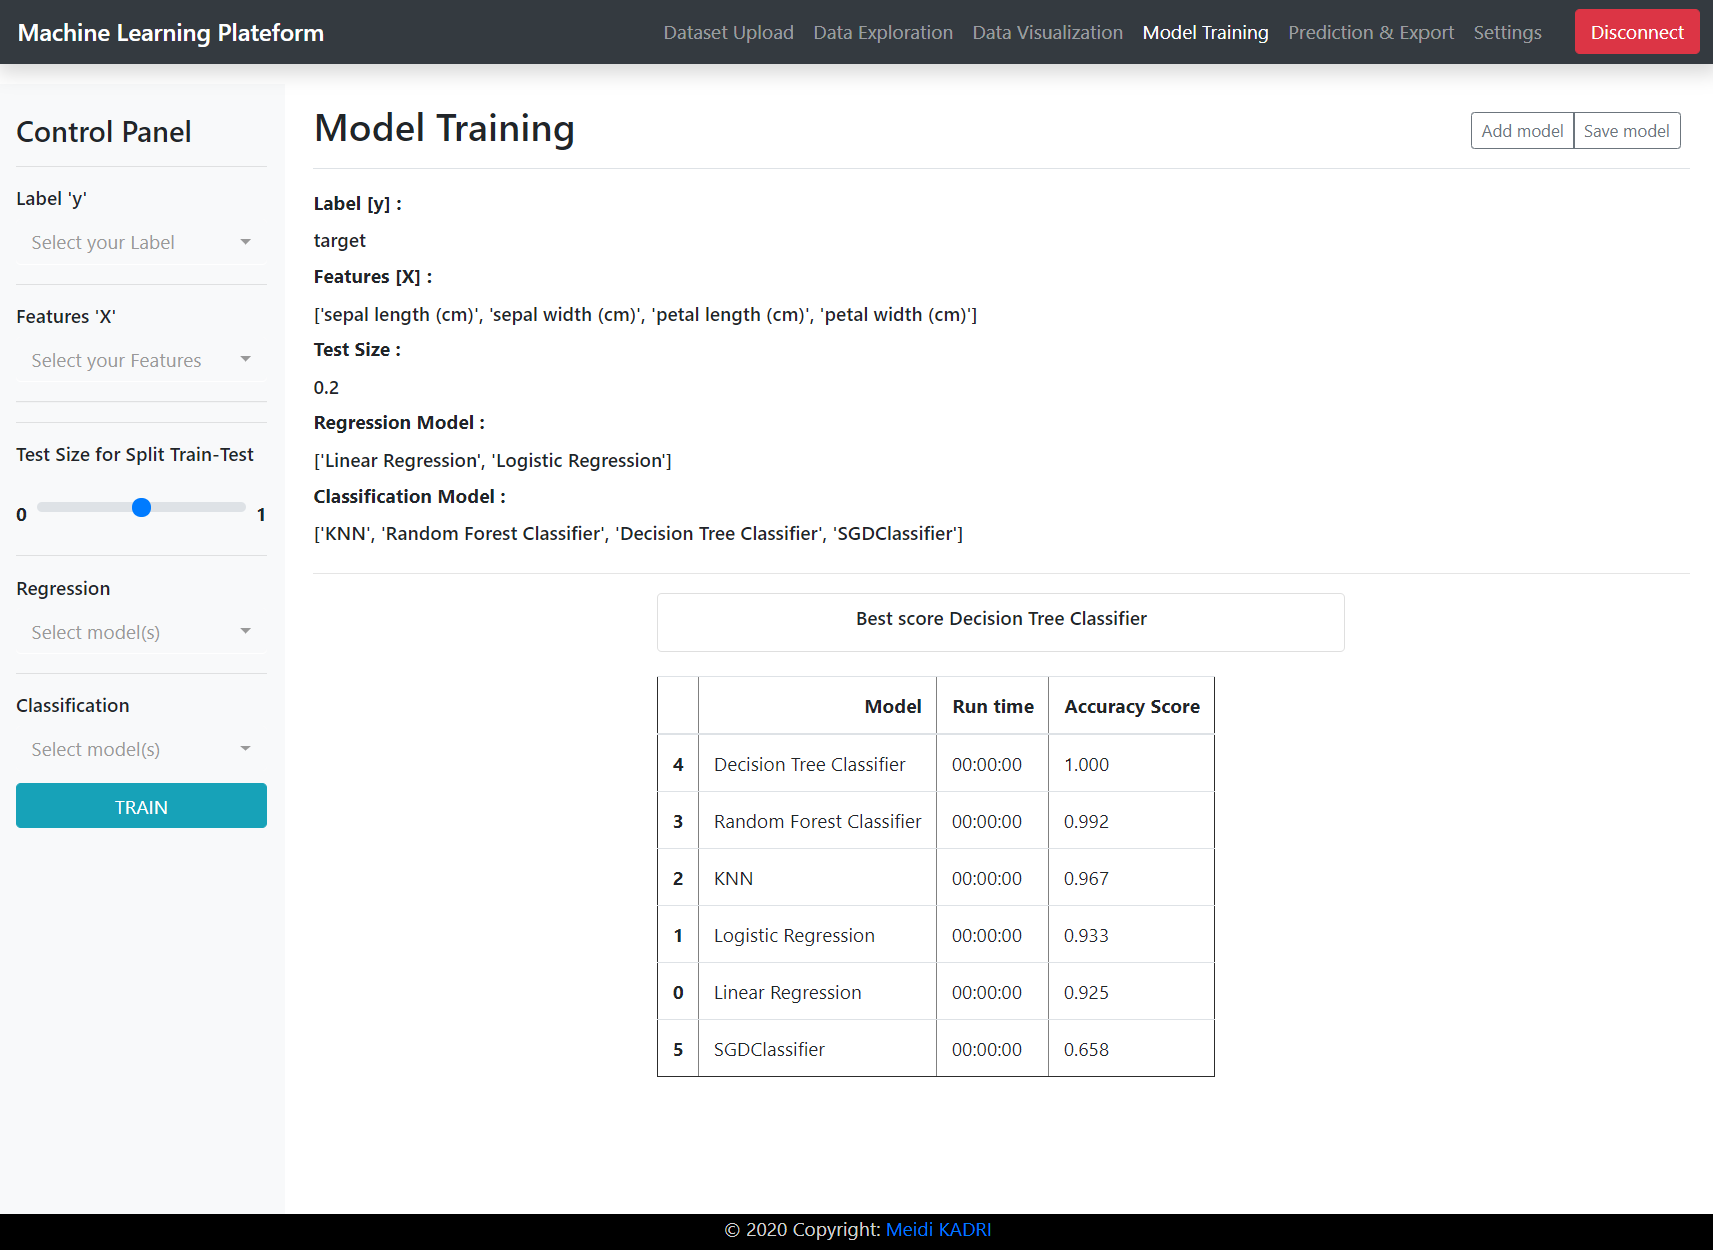
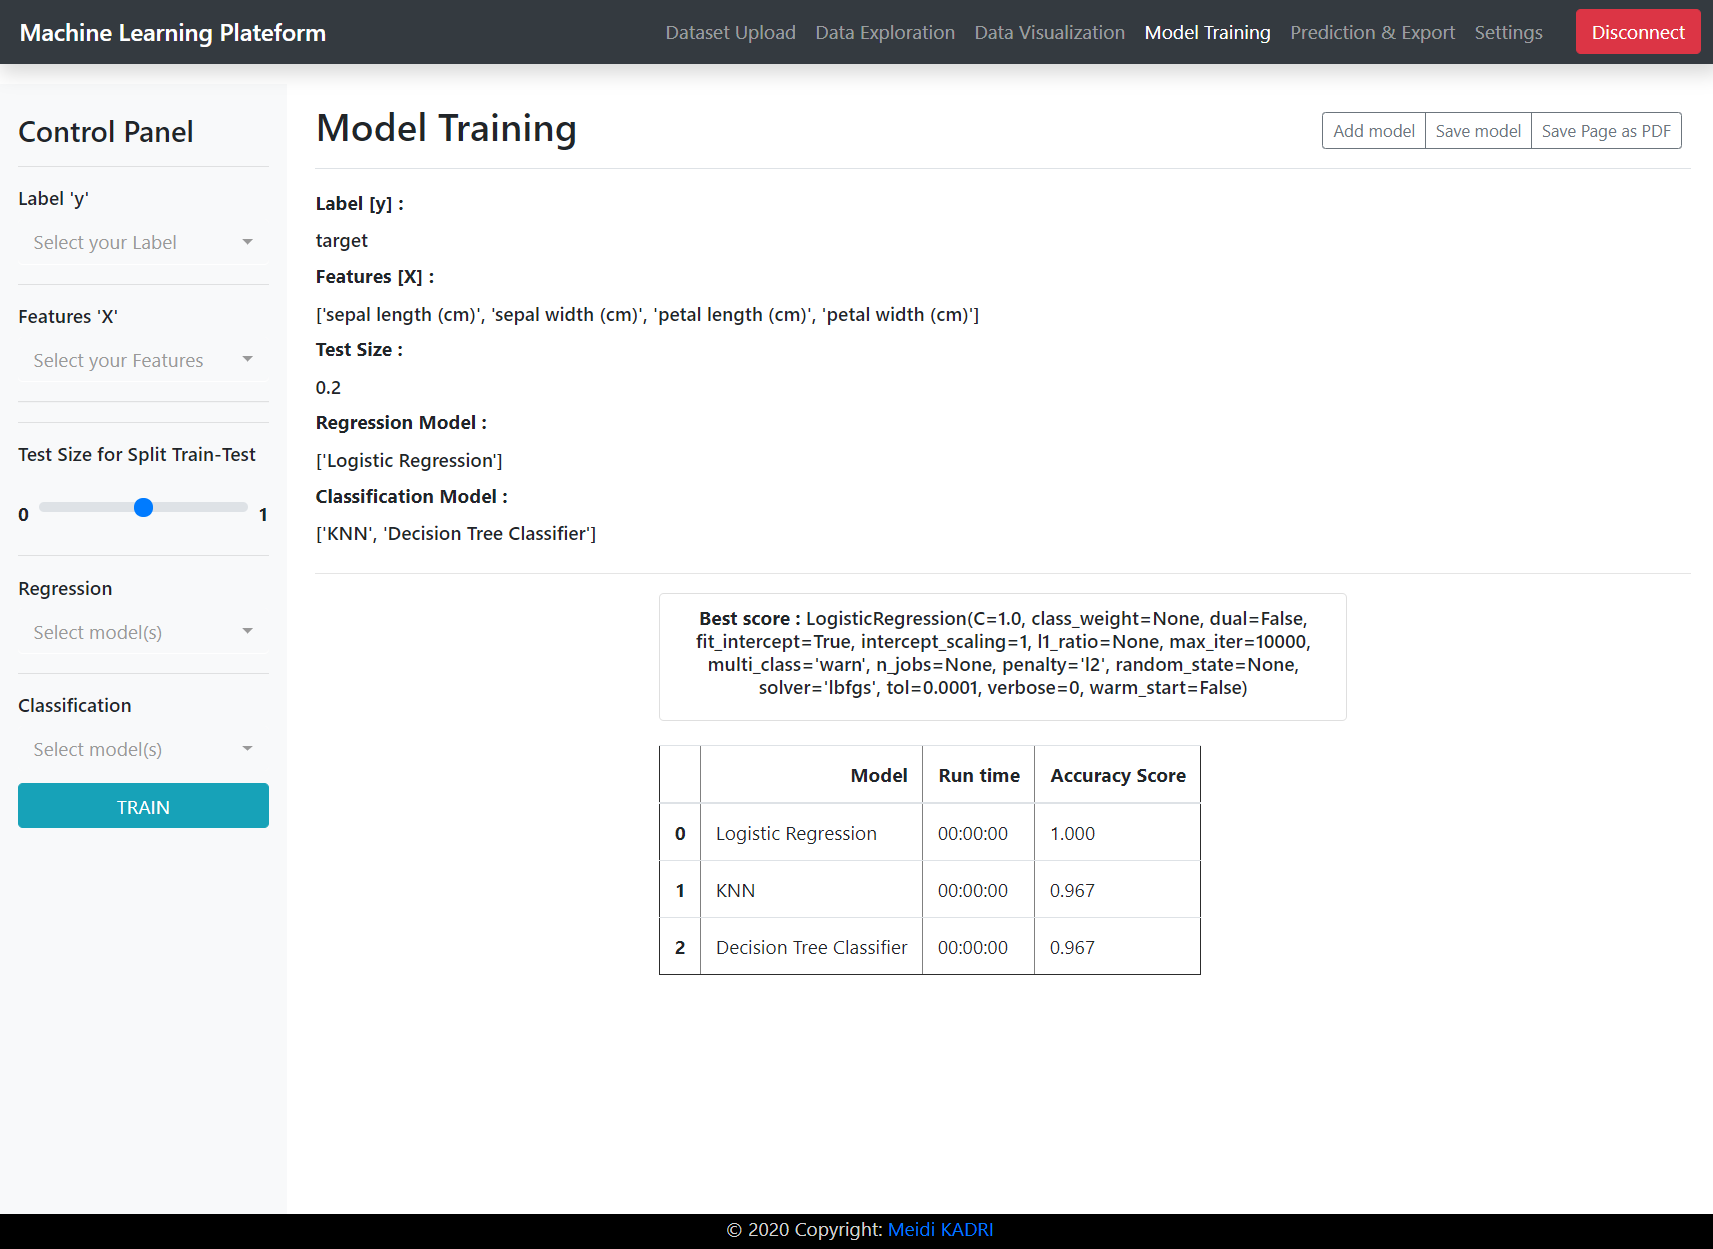
readme.md : Add screenshot + update info

diff --git a/templates/dataviz.html b/templates/dataviz.html
@@ -123,7 +123,6 @@
                     <!-- Displayed only if mosaic is checked -->
                     <div id = 'mosaic_col_sel_div'>
                         <select name="mosaic_col_selector"  class="selectpicker form-control" data-live-search="true" title = 'Select columns'>
-                        <option value="all">All</option>
                         {% for col in col_selec %}
                         <option value="{{ col.name }}">{{ col.name }}</option>
                         {% endfor %}
@@ -145,14 +144,12 @@
                     <!-- Displayed only if plot is checked -->
                     <div id = 'plot_col_sel_div'>
                         <select name="plot_col_selector_1"  class="selectpicker form-control" data-live-search="true" title = 'Select column 1'>
-                        <option value="all">All</option>
                         {% for col in col_selec %}
                         <option value="{{ col.name }}">{{ col.name }}</option>
                         {% endfor %}
                         </select>
 
                         <select name="plot_col_selector_2"  class="selectpicker form-control" data-live-search="true" title = 'Select column 2'>
-                        <option value="all">All</option>
                         {% for col in col_selec %}
                         <option value="{{ col.name }}">{{ col.name }}</option>
                         {% endfor %}

diff --git a/templates/prediction.html b/templates/prediction.html
@@ -172,8 +172,10 @@
         <div class="d-flex justify-content-between flex-wrap flex-md-nowrap align-items-center pt-3 pb-2 mb-3 border-bottom">
             <div>
                 {%if df_name%} <h6>Dataset : {{df_name}}</h6>{% endif %}
+                {%if best_model%} <h6>Best Model from training : {{best_model}}</h6>{% endif %}
             </div>
-        
+            <hr>
+
 
             <hr>
         </div>

diff --git a/brouillon.py b/brouillon.py
@@ -1,14 +1,101 @@
+import pyrebase
+from flask import *
+import secrets
+import time
+import json
+import pandas as pd
+from werkzeug.utils import secure_filename
+import io
+import random
+
+import pickle
+
+import base64
+
+import seaborn as sns
+
+from statsmodels.graphics.mosaicplot import mosaic
+
+from matplotlib.backends.backend_agg import FigureCanvasAgg as FigureCanvas
+from matplotlib.figure import Figure
+
+import matplotlib.pyplot as plt
+import seaborn as sns
+import numpy as np
+
+from sklearn.datasets import load_iris
+from sklearn.datasets import load_boston
+from sklearn.datasets import load_diabetes
+from sklearn.datasets import load_digits
+from sklearn.datasets import load_breast_cancer
+
+
+from sklearn.model_selection import train_test_split
+
 from sklearn.ensemble import RandomForestClassifier
 from sklearn.neighbors import KNeighborsClassifier
 from sklearn.cluster import KMeans
 from sklearn.tree import DecisionTreeClassifier
 from sklearn.ensemble import RandomForestClassifier
-from sklearn.linear_model import SGDClassifier
-from sklearn.datasets import load_iris
+from sklearn.linear_model import LinearRegression, LogisticRegression, SGDClassifier
 
-a = [1,5,6,7,99,15]
-b = sorted(a)
-print(b[-1])
+from sklearn.pipeline import Pipeline
+from sklearn.feature_extraction.text import TfidfTransformer
+
+from sklearn.model_selection import cross_val_score
+from sklearn.metrics import classification_report
+
+import datetime
+import time
+from time import strftime, gmtime
+
+app = Flask(__name__)
+app.secret_key = secrets.token_bytes(32)
+
+# Firebase configuration
+config = {
+    "apiKey": "AIzaSyCqtOhxgh9x2uTTRnCyQ2MFMnsfH5fjFV0",
+    "authDomain": "machine-learning-plateform.firebaseapp.com",
+    "databaseURL": "https://machine-learning-plateform.firebaseio.com",
+    "projectId": "machine-learning-plateform",
+    "storageBucket": "machine-learning-plateform.appspot.com",
+    "messagingSenderId": "858997576334",
+    "appId": "1:858997576334:web:973fcb03973218aba62fdf",
+    "measurementId": "G-GJPBZD2GD4"  
+}
+
+# Firebase init
+firebase = pyrebase.initialize_app(config)
+# Firebase authentication
+auth = firebase.auth()
+# Firebase Database
+db = firebase.database()
+
+
+
+data = load_iris()
+Xtrain, Xtest, Ytrain, Ytest = train_test_split(data.data, data.target, test_size=0.3, random_state=4)
+
+
+# Create a model
+model = LogisticRegression(C=0.1, 
+                           max_iter=20, 
+                           fit_intercept=True, 
+                           n_jobs=3, 
+                           solver='liblinear')
+model.fit(Xtrain, Ytrain)
+
+
+pkl_filename = "pickle_model.pkl"
+with open(pkl_filename, 'wb') as file:
+    pickle.dump(model, file)
+
+# Load from file
+with open(pkl_filename, 'rb') as file:
+    pickle_model = pickle.load(file)
+
+storage = firebase.storage()
+storage.child('models/pickle.pkl').put(pickle_model)
 
 
 

diff --git a/app.py b/app.py
@@ -8,6 +8,7 @@ from werkzeug.utils import secure_filename
 import io
 import random
 
+import pickle
 
 import base64
 
@@ -745,6 +746,7 @@ def model() :
         user = auth.refresh(user['refreshToken'])
         session['user'] = user
         global df
+        global best_model
 
         try:
 
@@ -812,6 +814,7 @@ def model() :
                             mods[k] = v
 
                 # Empties lists for the result dataTable
+                model_name = []
                 model_list = []
                 model_list = []
                 runtime_list = []
@@ -825,6 +828,7 @@ def model() :
                     model = model.fit(X_train, y_train)
                     runtime = time.time() - start_time
 
+                    model_name.append(v)
                     model_list.append(k)
                     runtime_list.append(strftime("%H:%M:%S", gmtime(runtime)))
 
@@ -841,16 +845,17 @@ def model() :
                 # We sort the df by score
                 result = result.sort_values(by=['Accuracy Score'], ascending=False)
 
-                model_key = model_list
+                # We make a dictionnary to store the best model.
+                model_key = model_name
                 model_score_value = scor_list
                 model_dict = dict(zip(model_key, model_score_value))
-                max_key = max(model_dict, key= model_dict.get) # Find the max value in a dict
+                best_model = max(model_dict, key= model_dict.get) # Find the max value in a dict
 
                 return render_template('model.html', df_result = [result.to_html(classes = 'data')],
                         **minimum_context,
                         label_selected = label_selected, features_selected = features_selected, test_size = test_size,
                         reg_mods_selected = reg_mods_selected, classif_mods_selected = classif_mods_selected,
-                        best_model = max_key)
+                        best_model = best_model)
                 
             return render_template('model.html',
                                    reg_models = regression_dic,
@@ -888,8 +893,11 @@ def prediction() :
             # Dictionnary of columns for form select
             cols = df.columns
             df_col_dic = [{'name':col} for col in cols]
+
             
-            return render_template('prediction.html', df_name= filename)
+            return render_template('prediction.html',
+                                   df_name= filename,
+                                   best_model = best_model)
         except:
 
             flash('There is no dataframe uploaded. PLease visit DATASET page first', 'warning')

diff --git a/readme.md b/readme.md
@@ -5,6 +5,8 @@ MLP is a web application using Flask Python web app framework.
 ## The Concept :
 The main purpose of MLP is to allow a user without a large knowlegde of machine learning to try some models and concepts. Directly in the MLP console, without code.  
 
+![Screenshot004](https://user-images.githubusercontent.com/57437129/83324103-1f5ef400-a263-11ea-8e0d-6712b134f033.png)
+
 After a connection to the plateform member area, the user is able to import and explore a dataset inside **'Data Exploration'** and **'Data Visualization'** pages.  
 
 Then, the user will be able to try one or several models, evaluate and compre them in **'Model Training'** page.  
@@ -13,14 +15,16 @@ In the **'Model Prediction'** area, it gonna be easy to make a prediction and ex
 
 ## Screenshot of the new version using Flask.
 ### Dataset Import
-![Screenshot001](https://user-images.githubusercontent.com/57437129/83120029-c2333900-a0d0-11ea-9cc9-a85d2eabcc4d.png)
+![Screenshot001](https://user-images.githubusercontent.com/57437129/83324301-98ab1680-a264-11ea-9396-6c00da4d28c8.png)
 
 ### Data Exploration page  
-![Screenshot002](https://user-images.githubusercontent.com/57437129/83120101-df680780-a0d0-11ea-9329-be85b2c050d6.png)
+![Screenshot002](https://user-images.githubusercontent.com/57437129/83324315-b8dad580-a264-11ea-8812-c3614cdfd42b.png)
+
+### Data Visualization page
+![Screenshot007](https://user-images.githubusercontent.com/57437129/83324340-e9bb0a80-a264-11ea-8282-193fc4398a0a.png)
 
 ### Model Training page
-![Screenshot003](https://user-images.githubusercontent.com/57437129/83120137-ed1d8d00-a0d0-11ea-9973-f17020a1ffc9.png)
-
+![Screenshot003](https://user-images.githubusercontent.com/57437129/83324317-c4c69780-a264-11ea-8eb0-d86668b3c35c.png)
 
 ## Web Map
 - Presentation page :  
@@ -50,6 +54,7 @@ Data Exploration, Data Visualization, Model Training, Model Prediction, Model ex
 - Change password page.
 - Settings page.
 - Model Training part.
+- Presentation page.
 
 ## In progress :
 - Data Visualization part.
@@ -58,7 +63,6 @@ Data Exploration, Data Visualization, Model Training, Model Prediction, Model ex
 - Model prediction part.
 
 ## To Do :
-- Presentation page.
 - Dockerize the app.
 - Deploy
 
